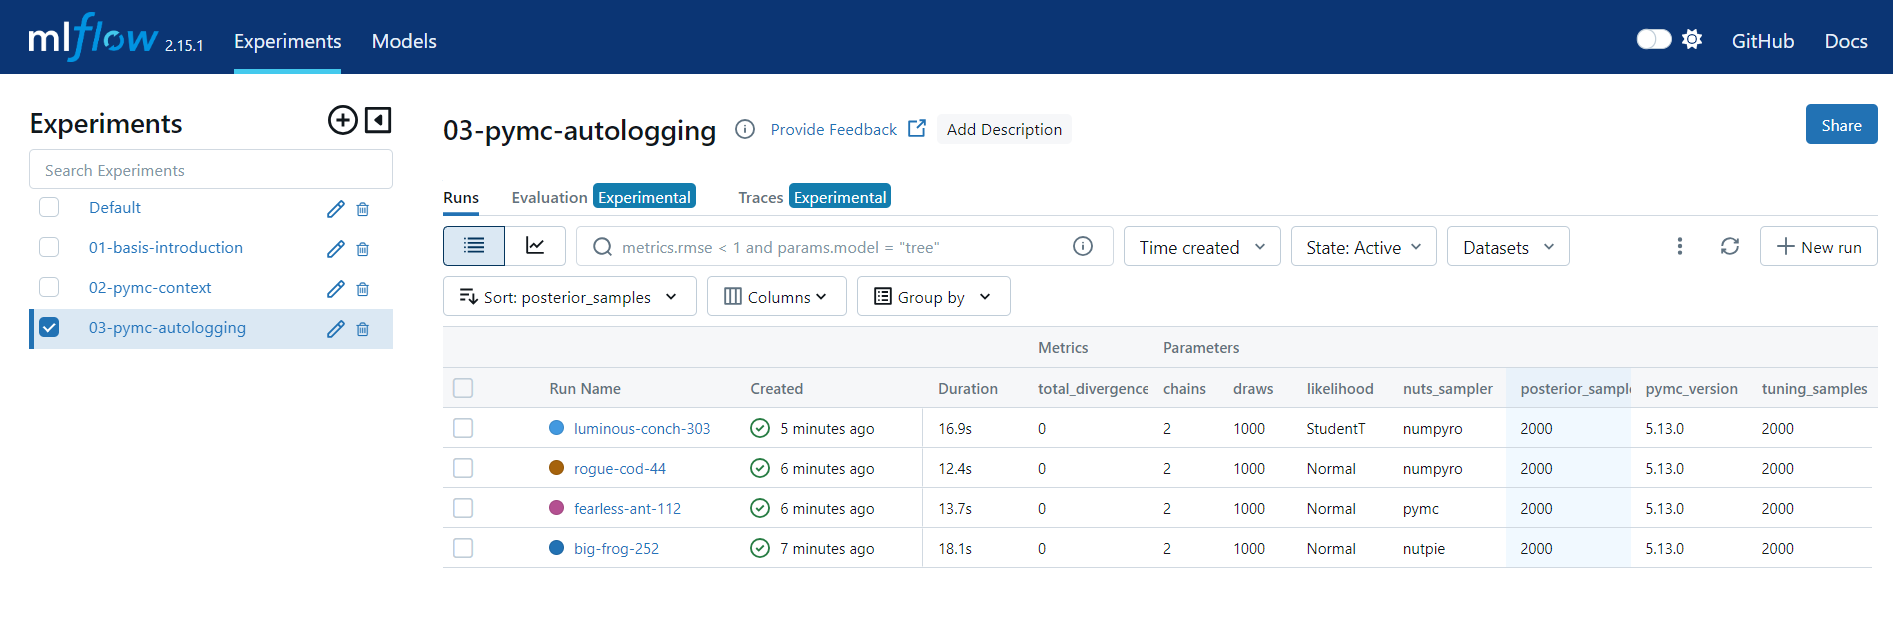
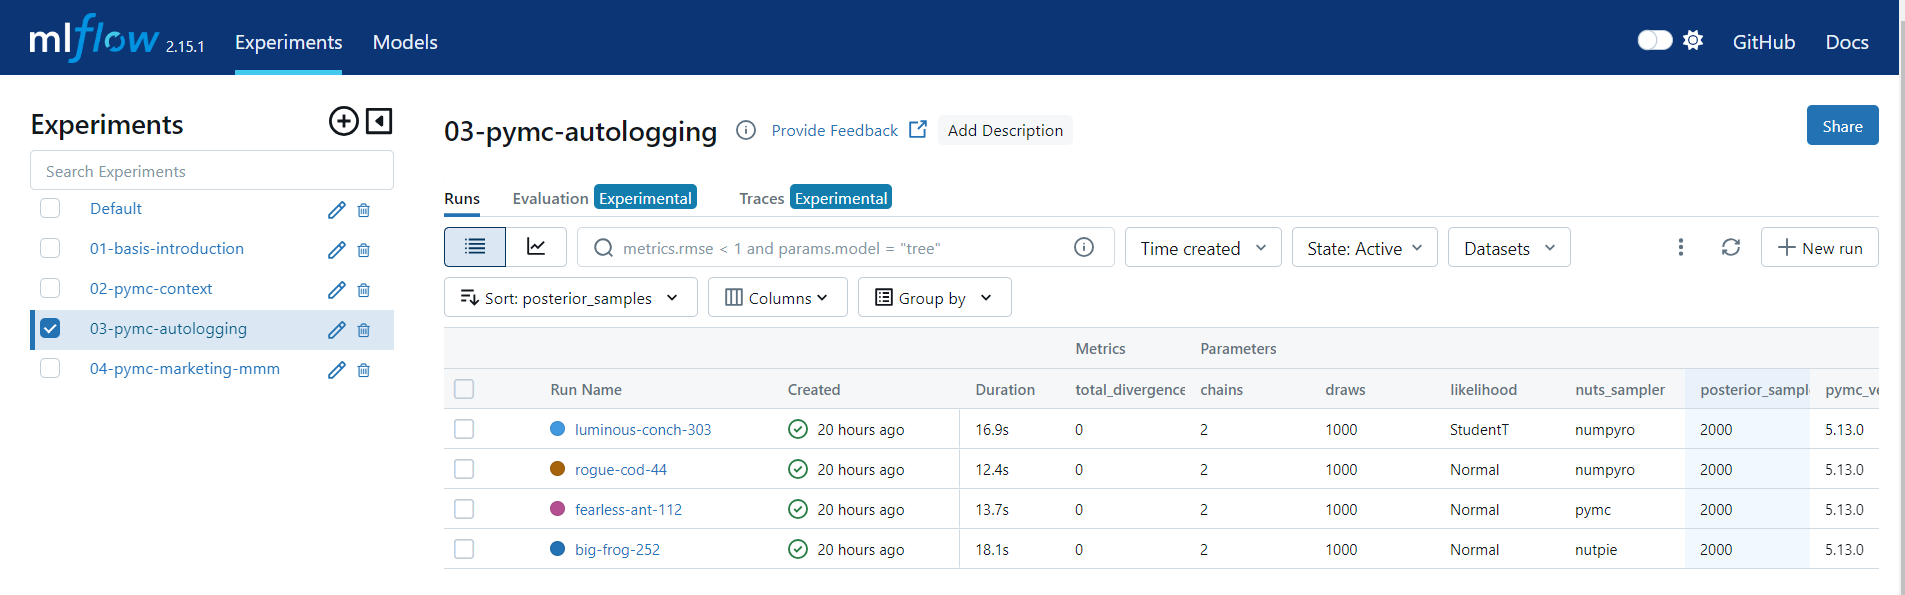
save off additional images

diff --git a/README.md b/README.md
@@ -1,12 +1,12 @@
 # PyMC with MLflow
 
-This is a simple example of using PyMC with MLflow.
+These are simple examples of using PyMC with MLflow.
 
 This focuses on logging parameters, metrics, and artifacts to MLflow.
 
 ![Autologging](./images/autolog.png)
 
-Suggestions or Questions? [Create an Issue on PyMC-Marketing](https://github.com/pymc-labs/pymc-marketing/issues/new)
+Suggestions or Questions? [Comment on this Issue](https://github.com/pymc-labs/pymc-marketing/issues/938)
 
 ## Scripts
 

diff --git a/04-pymc-marketing-mmm/README.md b/04-pymc-marketing-mmm/README.md
@@ -5,3 +5,6 @@ configurations](./run-config.yaml) and logs each as a separate run in MLflow.
 The script leverages the `pymc_marketing.mlflow.autolog` function as well as
 various `mlflow` log functions in order to customize the logging of the model.
 
+![Autologging](./../images/mmm-autolog.png)
+![Autolog Artifacts](./../images/mmm-autolog-artifacts.png)
+
